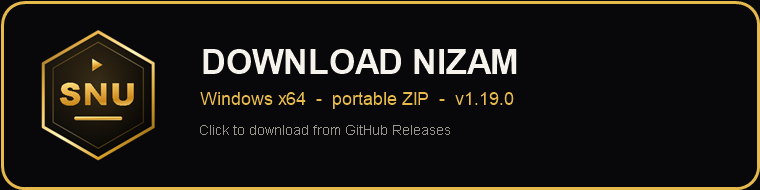
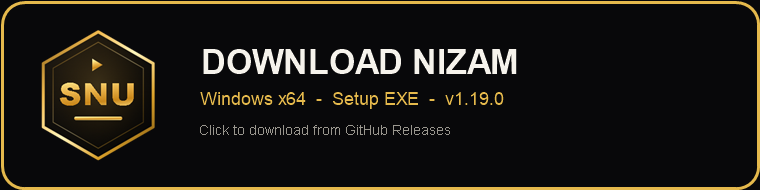
feat: direct .exe download button + self-extracting setup on Releases

Changed region(s): [[0.4237, 0.4737, 0.6961, 0.5526]]

diff --git a/README.md b/README.md
@@ -1,11 +1,11 @@
 # Nizam (Rebuilt) — v1.19.0
 
-[![Download Nizam for Windows](docs/download-button.png)](https://github.com/nizam1-11/nizam-clipper/releases/latest/download/Nizam-v1.19.0-win-x64.zip)
+[![Download Nizam for Windows](docs/download-button.png)](https://github.com/nizam1-11/nizam-clipper/releases/latest/download/Nizam-Setup-v1.19.0.exe)
 
-[![Download v1.19.0](https://img.shields.io/badge/Download-Nizam%20v1.19.0-E5B94C?style=for-the-badge&logo=windows&logoColor=white)](https://github.com/nizam1-11/nizam-clipper/releases/latest/download/Nizam-v1.19.0-win-x64.zip)
+[![Download Setup EXE](https://img.shields.io/badge/Download-Nizam%20Setup%20v1.19.0-E5B94C?style=for-the-badge&logo=windows&logoColor=white)](https://github.com/nizam1-11/nizam-clipper/releases/latest/download/Nizam-Setup-v1.19.0.exe)
 [![Windows](https://img.shields.io/badge/Platform-Windows%20x64-0078D6?style=for-the-badge)](https://github.com/nizam1-11/nizam-clipper/releases)
 
-**Click the banner or badge above to download the ready-to-run ZIP from GitHub Releases** — extract it and double-click `Nizam.exe`. No install required.
+**Click the banner or badge above — it downloads `Nizam-Setup-v1.19.0.exe` directly (no ZIP).** Run it, confirm the prompt, and it extracts the app into a `Nizam` folder and launches it automatically. A portable ZIP is also available on the [Releases page](https://github.com/nizam1-11/nizam-clipper/releases) as a fallback.
 
 > यह Nizam v1.19.0 का rebuild hai — neeche setup, commands aur "naya feature kaise add karein" ke steps diye gaye hain.
 
